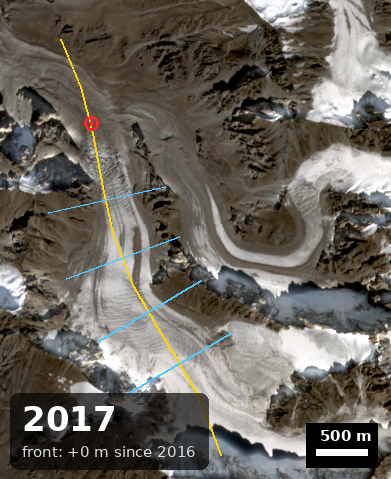
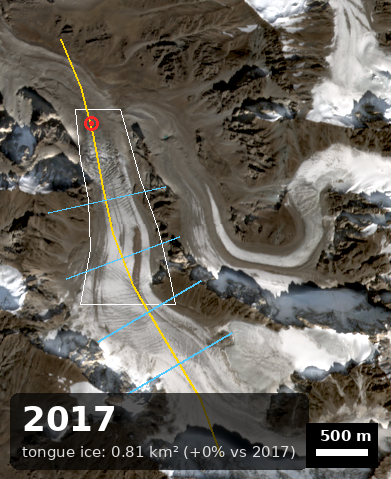
aksay rev2: tongue exposed-ice metric (fixed polygon, DOY-controlled fit); withdraw 'front retreat' claim — measured edge is clean-ice/debris boundary, not terminus
Claude-Session: https://claude.ai/code/session_017sa1zJm5o4WbEekt2ap134

Changed region(s): [[0.0614, 0.8184, 0.798, 0.9937]]

diff --git a/aksay/process.py b/aksay/process.py
@@ -16,6 +16,7 @@ HERE = os.path.dirname(os.path.abspath(__file__))
 DATA = os.path.join(HERE, "data")
 OUT  = os.path.join(HERE, "out")
 GEOM = os.path.join(HERE, "aksay_geometry.json")
+TONGUE = os.path.join(HERE, "aksay_tongue_polygon.json")
 
 NDSI_T, NIR_T = 0.4, 0.11       # NDSI snow/ice threshold; NIR>0.11 rejects water (Hall et al.)
 FRONT_GAP_M   = 100             # gaps in the ice run along the centerline tolerated up to this
@@ -65,6 +66,15 @@ def crop_slices(g):
 
 def cloud_px(d, coll):
     return (d["scl"] == 255) if coll.endswith("l1c") else np.isin(d["scl"], [3, 8, 9, 10])
+
+def ndsi(d):
+    g, s = d["b03"] / 1e4, d["b11"] / 1e4
+    return (g - s) / (g + s + 1e-6)
+
+def poly_mask(poly_ll):
+    m = Image.new("L", (W, H), 0)
+    ImageDraw.Draw(m).polygon([ll2px(lon, lat) for lon, lat in poly_ll], fill=1)
+    return np.array(m).astype(bool)
 
 def ice_mask(d):
     g, s, n = d["b03"] / 1e4, d["b11"] / 1e4, d["b08"] / 1e4
@@ -180,17 +190,24 @@ def analyse(rows, y0, L0):
         m, d = map(int, r["date"][5:].split("-")); return r["year"] + (m - 1) / 12 + (d - 1) / 365
     fit = {}
     for key, sel in (("clean", lambda r: not r["snow_flag"]), ("all", lambda r: True)):
-        rr = [r for r in rows if sel(r) and r["L_front_m"] is not None]
-        b, eb, _ = linfit([dec(r) for r in rr], [r["L_front_m"] for r in rr])
-        ba, eba, _ = linfit([dec(r) for r in rr], [r["area_km2"] for r in rr])
-        fit[key] = {"n": len(rr), "years": [r["year"] for r in rr],
-                    "front_m_per_yr": round(b, 1), "front_se": round(eb, 1),
-                    "area_km2_per_yr": round(ba, 3), "area_se": round(eba, 3)}
+        rr = [r for r in rows if sel(r) and r["L_clean_edge_m"] is not None]
+        fit[key] = {"n": len(rr), "years": [r["year"] for r in rr]}
+        for col in ("tongue_ice_km2", "L_clean_edge_m", "area_km2"):
+            b, eb, _ = linfit([dec(r) for r in rr], [r[col] for r in rr])
+            fit[key][col] = {"per_yr": round(b, 4), "se": round(eb, 4)}
+        # same, controlling for acquisition day-of-year (late-September frames read brighter/icier)
+        import datetime as dt
+        X = np.array([[1.0, r["year"] - 2021, dt.date.fromisoformat(r["date"]).timetuple().tm_yday - 240] for r in rr])
+        yv = np.array([r["tongue_ice_km2"] for r in rr])
+        cf, *_ = np.linalg.lstsq(X, yv, rcond=None)
+        s2 = ((yv - X @ cf) ** 2).sum() / (len(yv) - 3); se = np.sqrt(np.diag(s2 * np.linalg.inv(X.T @ X)))
+        fit[key]["tongue_ice_km2_doy_adj"] = {"per_yr": round(float(cf[1]), 4), "se": round(float(se[1]), 4),
+                                              "per_day": round(float(cf[2]), 4), "per_day_se": round(float(se[2]), 4)}
     ink, mute, grid, c1 = "#0b0b0b", "#52514e", "#e4e3df", "#2a78d6"
     fig, axs = plt.subplots(2, 1, figsize=(8, 6.4), sharex=True, dpi=130)
     fig.patch.set_facecolor("#fcfcfb")
-    for ax, key, lab, unit in ((axs[0], "L_front_m", "Front position along centerline", "m from top"),
-                               (axs[1], "area_km2", "NDSI snow/ice area in frame", "km²")):
+    for ax, key, lab, unit in ((axs[0], "tongue_ice_km2", "Exposed ice in fixed tongue polygon (NDSI>0.1)", "km²"),
+                               (axs[1], "L_clean_edge_m", "Clean-ice edge along centerline (not the terminus)", "m from top")):
         ax.set_facecolor("#fcfcfb")
         xs = [dec(r) for r in rows if r[key] is not None]; ys = [r[key] for r in rows if r[key] is not None]
         ax.plot(xs, ys, color=c1, lw=2, zorder=2)
@@ -222,6 +239,7 @@ def main():
     lo, hi = common_stretch(frames, sl)
     for sub in ("frames", "frames_ruler"): os.makedirs(os.path.join(OUT, sub), exist_ok=True)
 
+    tg = json.load(open(TONGUE)); TP = poly_mask(tg["polygon"]); px_km2 = PXW * PXH / 1e6
     cl_m, cl_d = densify([to_m(*p) for p in g["centerline"]])
     trans = build_transects(g, cl_m, cl_d)
 
@@ -234,8 +252,12 @@ def main():
         m = ice_mask(d); cl = cloud_px(d, coll); m &= ~cl
         L, _ = front_on_centerline(m, cl_m, cl_d)
         Ws = [width_on_transect(m, t["a"], t["b"]) for t in trans]
-        area = float(m[sl].sum() * PXW * PXH / 1e6)
-        rows.append({"year": y, "date": pk["date"], "L_front_m": None if L is None else round(L, 1),
+        area = float(m[sl].sum() * px_km2)
+        tice = (ndsi(d) > tg["ndsi_threshold"]) & TP & ~cl & (d["mask"] > 0)
+        rows.append({"year": y, "date": pk["date"],
+                     "tongue_ice_km2": round(float(tice.sum() * px_km2), 3),
+                     "tongue_ice_pct": round(100 * float(tice.sum() / TP.sum()), 1),
+                     "L_clean_edge_m": None if L is None else round(L, 1),
                      **{f"W{i+1}_m": round(w, 1) for i, w in enumerate(Ws)},
                      "area_km2": round(area, 3), "err_m": PX_ERR_M,
                      "cloud_bbox_pct": round(100 * float(cl[sl].mean()), 2)})
@@ -248,6 +270,7 @@ def main():
         im.convert("RGB").save(os.path.join(OUT, "frames", f"{y}.png")); clean.append(im)
 
         im2 = base.copy(); dr = ImageDraw.Draw(im2)
+        dr.polygon([P(q) for q in tg["polygon"]], outline=(255, 255, 255))
         dr.line([P(p) for p in g["centerline"]], fill=(255, 214, 0), width=2)
         for t in trans: dr.line([P(t["a"]), P(t["b"])], fill=(80, 200, 255), width=2)
         if L is not None:
@@ -256,13 +279,18 @@ def main():
             dr.ellipse([fx - 2, fy - 2, fx + 2, fy + 2], fill=(255, 40, 40))
         ruler.append((y, im2, L))
 
-    # cumulative retreat vs first valid year (front moves up-glacier → L decreases)
-    L0 = next((L for _, _, L in ruler if L is not None), None)
-    y0 = next((y for y, _, L in ruler if L is not None), None)
+    med = float(np.median([f["snow_bbox_pct_fetch"] for f in fr_rows]))
+    for r, f in zip(rows, fr_rows):
+        f["snow_flag"] = r["snow_flag"] = int(f["snow_bbox_pct_fetch"] > SNOW_FLAG_X * med)
+    # reference = first clean (not snow-flagged) year
+    ref = next(r for r in rows if not r["snow_flag"] and r["L_clean_edge_m"] is not None)
+    y0, L0, T0 = ref["year"], ref["L_clean_edge_m"], ref["tongue_ice_km2"]
+    byyear = {r["year"]: r for r in rows}
     sw, sh = sl[1].stop - sl[1].start, sl[0].stop - sl[0].start
     bar_px = 500 / PXW
     for y, im2, L in ruler:
-        sub = f"front: {L - L0:+.0f} m since {y0}" if L is not None else "front: n/a (masked)"
+        t = byyear[y]["tongue_ice_km2"]
+        sub = f"tongue ice: {t:.2f} km² ({100 * (t / T0 - 1):+.0f}% vs {y0})" + ("  ⚠snow" if byyear[y]["snow_flag"] else "")
         year_badge(im2, str(y), sub)
         dr = ImageDraw.Draw(im2); fx0, fy0 = sw - 24 - bar_px, sh - 30
         dr.rectangle([fx0 - 10, fy0 - 26, sw - 14, sh - 12], fill=(0, 0, 0, 170))
@@ -273,16 +301,13 @@ def main():
     save_gif(clean, os.path.join(OUT, "aksay_timelapse.gif"))
     save_gif([r[1] for r in ruler], os.path.join(OUT, "aksay_timelapse_ruler.gif"))
 
-    med = float(np.median([f["snow_bbox_pct_fetch"] for f in fr_rows]))
-    for r, f in zip(rows, fr_rows):
-        f["snow_flag"] = r["snow_flag"] = int(f["snow_bbox_pct_fetch"] > SNOW_FLAG_X * med)
     fit = analyse(rows, y0, L0)
     with open(os.path.join(OUT, "aksay_metrics.csv"), "w", newline="") as fh:
         w = csv.DictWriter(fh, fieldnames=list(rows[0])); w.writeheader(); w.writerows(rows)
     with open(os.path.join(OUT, "aksay_frames.csv"), "w", newline="") as fh:
         w = csv.DictWriter(fh, fieldnames=list(fr_rows[0])); w.writeheader(); w.writerows(fr_rows)
     json.dump({"fit": fit, "snow_median_pct": med, "stretch_p2_p98": [lo, hi], "gamma": GAMMA, "px_m": [PXW, PXH], "transects": trans,
-               "front_ref": {"year": y0, "L_m": L0}},
+               "ref": {"year": y0, "L_clean_edge_m": L0, "tongue_ice_km2": T0}},
               open(os.path.join(OUT, "run_meta.json"), "w"), indent=1)
     print(f"stretch p2/p98 = {lo:.0f}/{hi:.0f}  px = {PXW:.2f}×{PXH:.2f} m")
     for r in rows: print(r)

diff --git a/aksay/AKSAY_BASELINE.md b/aksay/AKSAY_BASELINE.md
@@ -1,13 +1,21 @@
-# AKSAY_BASELINE — Ak-Sai glacier, Sentinel-2 timelapse 2016–2026
+# AKSAY_BASELINE — Ak-Sai glacier, Sentinel-2 2016–2026
 
-R&D mini-project (`aksay/`), independent of OilRadar. Sentinel-2 L2A via CDSE Sentinel Hub Process API, 10 m.
+R&D mini-project (`aksay/`), independent of OilRadar. Sentinel-2 L2A via CDSE Sentinel Hub Process API, 10 m. Revision 2: the v1 "front retreat 10 m/yr" claim is withdrawn — see below.
 
-## Verdict (from the CSV fit only)
+## Verdict (from the CSV fits only)
 
-- **Front retreat: 10.2 ± 3.8 m/yr** (OLS slope ± 1σ, 8 clean frames 2017–2026; snow-flagged 2016/2020/2024 excluded). All 11 frames: 9.9 ± 4.8 m/yr — same answer, so the snow flags do not drive the result.
-- **Accumulated retreat 2017→2026: ≈ 91 ± 34 m** from the fit; raw frame difference 2017→2026 = -115 m (±14 m, two 1-px errors).
-- Snow/ice area in frame: -0.128 ± 0.063 km²/yr (clean years). Not glacier area: it is every NDSI pixel in the 3.9×4.8 km frame, incl. firn/snow patches; trend only.
-- Order-of-magnitude check: published estimates for Ala-Archa valley glaciers (Ak-Sai, Golubin; WGMS / Tien Shan literature) are a few to ~15 m/yr of terminus retreat — our 10 m/yr sits inside that band. One-line check, no deep research.
+- **Measured: the exposed-ice area of the lower tongue is shrinking.** Inside a fixed 1.29 km² tongue polygon, ice (NDSI>0.1) went 0.806 km² (2017) → 0.549 km² (2026), 62.6% → 42.6% of the polygon.
+  - Fit, 8 clean years: **-0.023 ± 0.007 km²/yr**; controlling for acquisition day-of-year: **-0.020 ± 0.003 km²/yr** (6σ). All 11 years: -0.025 ± 0.007.
+  - Holds at every NDSI threshold 0.0 / 0.1 / 0.2 / 0.4 (not a threshold artefact). The NDSI histogram inside the polygon is bimodal (debris ≈ −0.2, ice ≈ +0.65); 0.1 sits in the valley.
+- **Interpretation:** the tongue's outline (valley-wall margins, crevasse field, medial moraines) does not visibly move at 10 m. What changes is the surface: bare ice is being replaced by debris cover / very dirty ice — the typical signature of a thinning, debris-covered tongue. This is evidence of ice loss, **not** a measured terminus retreat.
+- **Not measured: terminus retreat.** Ak-Sai's real snout is debris-covered (the grey-brown lobe below the clean ice) and invisible to NDSI. The v1 "front" was the clean-ice/debris boundary; its fit (-10.2 ± 3.8 m/yr) is kept in the CSV as `L_clean_edge_m` but it is a surface boundary, it moves in 25–50 m jumps (3–5 px, at the noise level), and it is not glacier length.
+- Literature line (no deep research): Ala-Archa glaciers (Ak-Sai, Golubin; WGMS) are reported to lose mass and retreat by a few to ~15 m/yr; a darkening/debris-expanding tongue is consistent with that. Our data cannot confirm the retreat rate itself.
+
+## Why the GIF does not show it obviously
+
+- 10 years × ~10 m/yr = ~100 m = ~10 px in a 390-px frame. Below what the eye catches next to year-to-year snow differences.
+- The visible frame-to-frame change is dominated by snow cover and by the white→grey transition of the tongue — the latter is the real signal.
+- To make change obvious: a 30-year baseline (Landsat 1990s) or a DEM-difference (thinning in metres) — see next steps.
 
 ## Frames (Stage 0)
 
@@ -25,40 +33,44 @@ R&D mini-project (`aksay/`), independent of OilRadar. Sentinel-2 L2A via CDSE Se
 | 2025 | 2025-09-04 | 0.0 | 17.9 | — | aug-sep |
 | 2026 | 2026-08-30 | 0.0 | 15.0 | — | aug-sep |
 
-- Selection: catalog L2A Aug–Sep, tile CC<15 %; each date scored inside the bbox by SCL (cloud = classes 3/8/9/10, snow = 11). Pick = cloud ≤ min+0.5 pp (floor 1 %), then least snow, then latest date. Candidates + quicklooks: `aksay/data/candidates.json`, `aksay/data/quicklooks/`.
-- Snow flag = snow fraction > 1.25 × series median (23.1 %). 2016/2020/2024 had no cleaner neighbour date (every other clear scene that season was snowier or cloudy) → kept, flagged, excluded from the main fit. 2016 is a single-scene year (only S2A in orbit).
-- No year needed the widened Jul 15 – Oct 10 window. 2015: no L2A, no clear L1C over the bbox → series starts 2016.
-- Render: TRUE_COLOR B04/B03/B02, identical bbox/size every year, **one** p2–p98 stretch for the whole series (375–9560 reflectance ×1e4, common to all bands) + one gamma 0.6 → no brightness flicker.
-- Landsat 1990s–2000s (stretch goal): skipped — CDSE Sentinel Hub has no Landsat-5/7 archive, the USGS route needs separate auth. Can add later.
+- Selection: catalog L2A Aug–Sep, tile CC<15 %; every date scored inside the bbox by SCL (cloud = 3/8/9/10, snow = 11). Pick = cloud ≤ min+0.5 pp (floor 1 %), then least snow, then latest. Candidates + quicklooks in `aksay/data/`.
+- Snow flag = snow fraction > 1.25 × series median (23.1 %). 2016/2020/2024 had no cleaner date that season → kept, flagged, excluded from the main fits. 2016 is a single-scene year (S2A only).
+- Widened window never needed. 2015: no L2A and no clear L1C → series starts 2016.
+- Render: TRUE_COLOR, identical bbox/size, one p2–p98 stretch for the whole series (375–9560, ×1e4 reflectance) + one gamma 0.6 → no flicker.
+- Landsat 1990s–2000s: skipped (no Landsat-5/7 on CDSE; USGS needs separate auth).
 
-## Metrics (Stage 2)
+## Metrics
 
-| year | date | L_front_m | W1_m | W2_m | W3_m | W4_m | area_km2 | ±m | snow flag |
-|---|---|---|---|---|---|---|---|---|---|
-| 2016 | 2016-08-09 | 3577.4 | 1155.0 | 775.0 | 770.0 | 310.0 | 7.952 | 10 | ⚠ |
-| 2017 | 2017-09-16 | 3577.4 | 995.0 | 755.0 | 525.0 | 305.0 | 6.656 | 10 |  |
-| 2018 | 2018-09-08 | 3577.4 | 1005.0 | 615.0 | 350.0 | 295.0 | 6.374 | 10 |  |
-| 2019 | 2019-08-12 | 3537.3 | 745.0 | 245.0 | 185.0 | 250.0 | 5.327 | 10 |  |
-| 2020 | 2020-09-25 | 3682.7 | 1155.0 | 790.0 | 780.0 | 335.0 | 8.9 | 10 | ⚠ |
-| 2021 | 2021-09-27 | 3587.5 | 970.0 | 765.0 | 490.0 | 305.0 | 6.852 | 10 |  |
-| 2022 | 2022-09-07 | 3537.3 | 835.0 | 620.0 | 330.0 | 275.0 | 5.993 | 10 |  |
-| 2023 | 2023-08-21 | 3487.2 | 855.0 | 530.0 | 325.0 | 235.0 | 5.834 | 10 |  |
-| 2024 | 2024-08-20 | 3537.3 | 990.0 | 730.0 | 380.0 | 295.0 | 6.918 | 10 | ⚠ |
-| 2025 | 2025-09-04 | 3537.3 | 910.0 | 620.0 | 360.0 | 210.0 | 5.472 | 10 |  |
-| 2026 | 2026-08-30 | 3462.1 | 830.0 | 450.0 | 340.0 | 160.0 | 5.023 | 10 |  |
+| year | date | tongue_ice_km2 | tongue_ice % | L_clean_edge_m | W1 | W2 | W3 | W4 | frame snow/ice km² | snow flag |
+|---|---|---|---|---|---|---|---|---|---|---|
+| 2016 | 2016-08-09 | 0.856 | 66.4 | 3577.4 | 1155.0 | 775.0 | 770.0 | 310.0 | 7.952 | ⚠ |
+| 2017 | 2017-09-16 | 0.806 | 62.6 | 3577.4 | 995.0 | 755.0 | 525.0 | 305.0 | 6.656 |  |
+| 2018 | 2018-09-08 | 0.751 | 58.2 | 3577.4 | 1005.0 | 615.0 | 350.0 | 295.0 | 6.374 |  |
+| 2019 | 2019-08-12 | 0.655 | 50.8 | 3537.3 | 745.0 | 245.0 | 185.0 | 250.0 | 5.327 |  |
+| 2020 | 2020-09-25 | 0.956 | 74.2 | 3682.7 | 1155.0 | 790.0 | 780.0 | 335.0 | 8.9 | ⚠ |
+| 2021 | 2021-09-27 | 0.812 | 63.0 | 3587.5 | 970.0 | 765.0 | 490.0 | 305.0 | 6.852 |  |
+| 2022 | 2022-09-07 | 0.673 | 52.2 | 3537.3 | 835.0 | 620.0 | 330.0 | 275.0 | 5.993 |  |
+| 2023 | 2023-08-21 | 0.638 | 49.5 | 3487.2 | 855.0 | 530.0 | 325.0 | 235.0 | 5.834 |  |
+| 2024 | 2024-08-20 | 0.703 | 54.6 | 3537.3 | 990.0 | 730.0 | 380.0 | 295.0 | 6.918 | ⚠ |
+| 2025 | 2025-09-04 | 0.606 | 47.0 | 3537.3 | 910.0 | 620.0 | 360.0 | 210.0 | 5.472 |  |
+| 2026 | 2026-08-30 | 0.549 | 42.6 | 3462.1 | 830.0 | 450.0 | 340.0 | 160.0 | 5.023 |  |
 
 ![metrics](out/aksay_metrics.png)
 
-## Method & honest caveats
+## Method & caveats
 
-- Geometry frozen in `aksay/aksay_geometry.json` (v1): crop, 4.47 km centerline from the top of the accumulation basin down the flow axis to ~0.8 km below every front, transects perpendicular at 1000/1600/2200/2800 m from the top, 1200 m long. Drawn on the earliest frames (2016; axis cross-checked on 2017 because 2016 has fresh snow).
-- Ice mask: NDSI = (B03−B11)/(B03+B11) > 0.4 (B11 20 m → resampled to 10 m by SH) **and** B08 > 0.11 (standard water rejection, Hall et al.); SCL cloud pixels removed.
-- **Front = end of clean ice, not the debris-covered snout.** Ak-Sai's tongue is split by medial moraines into parallel ice strips; the raw centerline crossed debris and the mask broke mid-glacier. Fix: ice counts on the centerline if present within ±40 m across it; gaps ≤100 m bridged. The debris-covered terminus below is invisible to NDSI — this measures the retreat of the clean-ice front, which is what moves visibly in the GIF.
-- Front positions are quantised (repeat values 3577/3537 m): the clean-ice end jumps between crevassed strips. That is why the single-year readout is noisy (2021 shows +10 m) and the verdict comes only from the fit.
-- Snow-flagged years push the front down-glacier (snow on moraine reads as ice): 2020 = +105 m vs trend. 2019-08-12 shows dark/wet bare ice in the mid-glacier → low area and W2; front unaffected.
-- Widths = total mask ∩ transect length, so they include adjacent snow patches on the transect; use as a relative trend.
-- If an independent check is wanted: manual front digitisation on 11 frames (≈20 min) would remove the quantisation noise.
+- Frozen geometry: `aksay_geometry.json` v1 (crop, 4.47 km centerline, transects at 1000/1600/2200/2800 m, 1200 m long) and `aksay_tongue_polygon.json` v1 (lower-tongue polygon, valley wall to valley wall, added in revision 2; v1 geometry untouched).
+- Day-of-year matters: +0.0037 ± 0.0007 km²/day — late-September frames read icier. The adjusted fit removes it; the trend survives.
+- `L_clean_edge_m`: clean-ice edge on the centerline (ice counted within ±40 m across the line, gaps ≤100 m bridged). Quantised, surface-driven — do not quote as retreat.
+- Widths W1–W4 = total ice ∩ transect length (include adjacent snow patches) and frame snow/ice area = every NDSI>0.4 pixel in the frame: trends only, not glacier geometry.
+- Mask for widths/edge: NDSI>0.4 & B08>0.11 (water rejection), SCL clouds removed. Tongue metric: NDSI>0.1 inside the polygon, clouds removed.
+
+## Next steps (if we want a retreat number)
+
+1. Landsat 5/7/8 1990–2015 via USGS M2M or Google Earth Engine → 30-year baseline; change becomes obvious in the GIF.
+2. Thinning: difference two DEMs (Copernicus GLO-30 ~2011–2015 vs a recent ASTER/Pléiades/ArcticDEM-style DEM) over the tongue → metres of surface lowering.
+3. Manual digitising of the debris-covered snout on 11 frames — feasible, but at 10 m the snout edge is fuzzy (±30–50 m); marginal over 10 years.
 
 ## Files
 
-`aksay/out/aksay_timelapse.gif`, `aksay/out/aksay_timelapse_ruler.gif`, `aksay/out/frames/*.png`, `aksay/out/frames_ruler/*.png`, `aksay/out/aksay_metrics.csv`, `aksay/out/aksay_frames.csv`, `aksay/out/aksay_metrics.png`. Re-run: `python aksay/process.py` (offline); new frames: workflow `aksay_fetch.yml`.
+`aksay/out/aksay_timelapse.gif`, `aksay/out/aksay_timelapse_ruler.gif`, `aksay/out/frames/`, `aksay/out/frames_ruler/`, `aksay/out/aksay_metrics.csv`, `aksay/out/aksay_frames.csv`, `aksay/out/aksay_metrics.png`. Re-run offline: `python aksay/process.py`; new frames: workflow `aksay_fetch.yml`.
